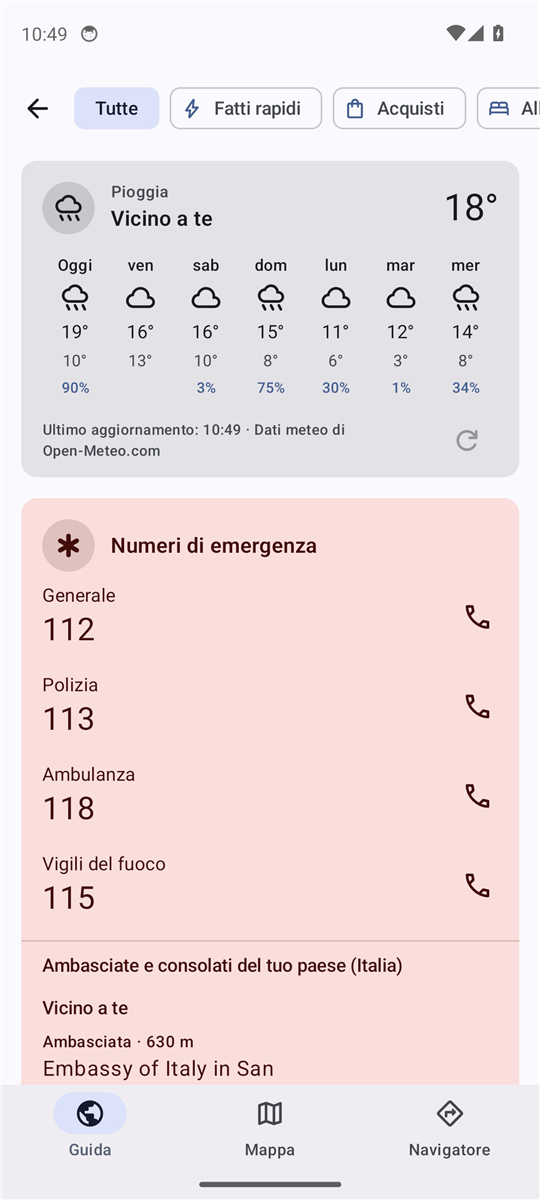
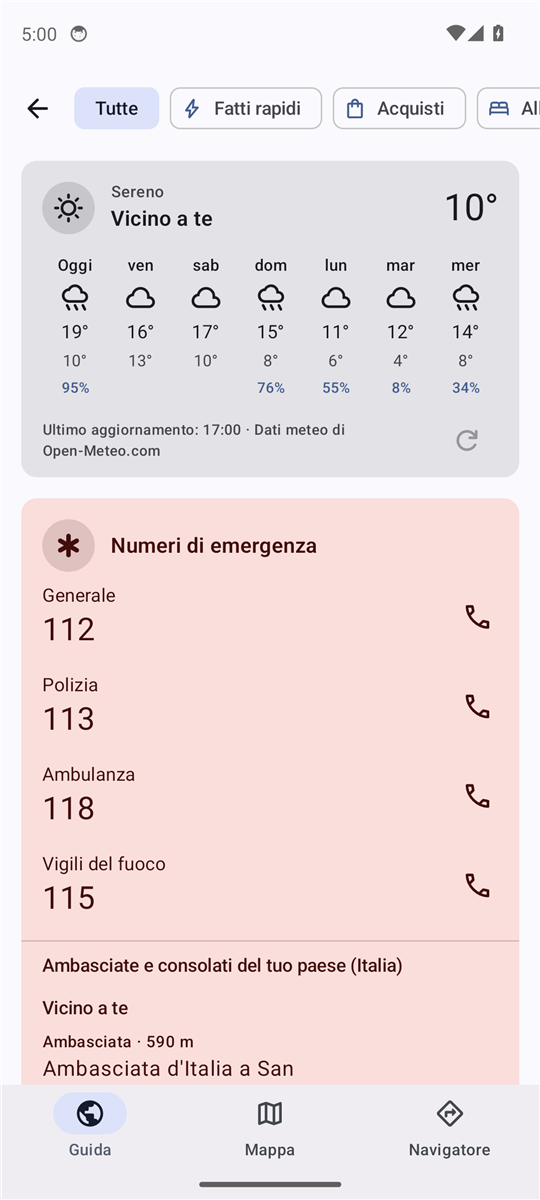
fix: nomi italiani in Italia, San Marino e Vaticano; Gratuito e ragionamento di Qwen online
Con l'app in italiano i luoghi di Italia, San Marino e Città del Vaticano
comparivano con il nome inglese ("Trevi Fountain", "Embassy of Italy in
San Marino"): la pipeline scartava name:it uguale a name e l'app passava
a name:en. Ora in quelle regioni l'italiano usa il nome locale, anche con
i pacchetti già installati, e la pipeline tiene name:it quando c'è anche
name:en.

Motore Online: un modello a prezzo zero mostra «Gratuito». Su Cloudflare
il ragionamento si spegne solo per Automatico (Gemma): senza ragionamento
Qwen, Più capace, sbagliava 4 domande difficili su 10.

diff --git a/tools/data-pipeline/content/src/main/kotlin/com/pockettravel/pipeline/GeneratePoi.kt b/tools/data-pipeline/content/src/main/kotlin/com/pockettravel/pipeline/GeneratePoi.kt
@@ -137,7 +137,8 @@ data class Poi(
     // Ambasciate e consolati: paese che rappresentano (tag OSM "country", ISO 3166-1 alpha-2), per
     // mostrare a chi viaggia quelle del proprio paese.
     val country: String? = null,
-    // Nome in inglese e in italiano (tag OSM name:en, name:it), solo se diverso da name: l'app mostra
+    // Nome in inglese e in italiano (tag OSM name:en, name:it), solo se diverso da name; nameIt resta anche
+    // se uguale a name quando c'e' un nameEn (senza, l'app mostrerebbe l'inglese a chi usa l'italiano). L'app mostra
     // quello della lingua dell'interfaccia, utile soprattutto con alfabeti diversi ("清水寺" -> "Kiyomizu-dera").
     val nameEn: String? = null,
     val nameIt: String? = null,
@@ -188,6 +189,7 @@ private fun poiFromKey(tags: Map<String, String>, lat: Double, lon: Double, tagK
     val osmTag = "$tagKey=$tagValue"
     val details = poiHasDetails(category, osmTag)
     val contacts = poiHasContacts(category, osmTag)
+    val nameEn = translatedName(tags, "name:en")?.nfc()
     return Poi(
         // Farmacie, supermercati e catene spesso hanno solo il marchio ("Conad", "Lloyds"): meglio del tipo.
         name = (tags["name"] ?: tags["brand"]?.takeIf { details } ?: tagValue).nfc(),
@@ -205,8 +207,9 @@ private fun poiFromKey(tags: Map<String, String>, lat: Double, lon: Double, tagK
         website = (tags["website"] ?: tags["contact:website"]).takeIf { contacts },
         email = (tags["email"] ?: tags["contact:email"]).takeIf { contacts },
         country = if (category == "embassy") representedCountry(tags["country"]) else null,
-        nameEn = translatedName(tags, "name:en")?.nfc(),
-        nameIt = translatedName(tags, "name:it")?.nfc(),
+        nameEn = nameEn,
+        // Uguale a name resta se c'e' un nameEn: senza, l'italiano cadrebbe sull'inglese ("Fontana di Trevi" -> "Trevi Fountain").
+        nameIt = translatedName(tags, "name:it", keepSameAsName = nameEn != null)?.nfc(),
         toiletsWheelchair = tags["toilets:wheelchair"],
         capacityDisabled = tags["capacity:disabled"]?.trim()?.toIntOrNull()?.takeIf { it > 0 },
         wikidata = wikidataNumber(tags["wikidata"]),
@@ -221,8 +224,8 @@ private fun wikidataNumber(raw: String?): Long? =
 // Nomi in forma precomposta (NFC): la ricerca per nome dell'app confronta i caratteri precomposti.
 private fun String.nfc(): String = Normalizer.normalize(this, Normalizer.Form.NFC)
 
-private fun translatedName(tags: Map<String, String>, key: String): String? =
-    tags[key]?.trim()?.takeIf { it.isNotEmpty() && tags["name"] != null && it != tags["name"] }
+private fun translatedName(tags: Map<String, String>, key: String, keepSameAsName: Boolean = false): String? =
+    tags[key]?.trim()?.takeIf { it.isNotEmpty() && tags["name"] != null && (keepSameAsName || it != tags["name"]) }
 
 // "IT", anche da "it" o "IT;SM" (piu' paesi: il primo). null se non e' un codice a due lettere.
 private fun representedCountry(raw: String?): String? =

diff --git a/core/data/src/test/kotlin/com/pockettravel/core/data/PoiDisplayNameTest.kt b/core/data/src/test/kotlin/com/pockettravel/core/data/PoiDisplayNameTest.kt
@@ -1,0 +1,45 @@
+package com.pockettravel.core.data
+
+import org.junit.Assert.assertEquals
+import org.junit.Test
+
+class PoiDisplayNameTest {
+
+    private fun poi(regionId: String, nameEn: String? = "Trevi Fountain", nameIt: String? = null) = Poi(
+        id = 1, regionId = regionId, name = "Fontana di Trevi", category = "attraction", latitude = 41.9, longitude = 12.48,
+        osmTag = "tourism=attraction", phone = null, nameEn = nameEn, nameIt = nameIt,
+    )
+
+    @Test
+    fun `in italiano, nelle regioni di lingua italiana, vale il nome locale e non quello inglese`() {
+        listOf("italia", "san-marino", "citta-del-vaticano").forEach {
+            assertEquals("Fontana di Trevi", poi(it).displayName("it"))
+        }
+    }
+
+    @Test
+    fun `in italiano, nelle altre regioni, senza name it resta il nome inglese`() {
+        assertEquals("Trevi Fountain", poi("giappone").displayName("it"))
+    }
+
+    @Test
+    fun `name it vince sempre`() {
+        assertEquals("Fontana", poi("italia", nameIt = "Fontana").displayName("it"))
+        assertEquals("Fontana", poi("giappone", nameIt = "Fontana").displayName("it"))
+    }
+
+    @Test
+    fun `in inglese non cambia nulla`() {
+        assertEquals("Trevi Fountain", poi("italia").displayName("en"))
+        assertEquals("Fontana di Trevi", poi("italia", nameEn = null).displayName("en"))
+    }
+
+    @Test
+    fun `le rappresentanze OSM in Italia si mostrano con il nome italiano`() {
+        val embassy = Poi(
+            id = 2, regionId = "san-marino", name = "Ambasciata d'Italia a San Marino", category = "embassy", latitude = 43.9, longitude = 12.4,
+            osmTag = "amenity=embassy", phone = null, nameEn = "Embassy of Italy in San Marino",
+        )
+        assertEquals("Ambasciata d'Italia a San Marino", mergeEmbassies(listOf(embassy), emptyList(), emptyList(), "it").single().name)
+    }
+}

diff --git a/core/data/src/main/kotlin/com/pockettravel/core/data/PoiRepository.kt b/core/data/src/main/kotlin/com/pockettravel/core/data/PoiRepository.kt
@@ -133,8 +133,19 @@ private fun PoiEntity.toDomain() =
         toiletsWheelchair, capacityDisabled,
     )
 
-/** Nome nella lingua dell'interfaccia ("en"/"it") se OSM lo ha, altrimenti quello locale. */
-fun Poi.displayName(language: String): String = (if (language == "en") nameEn else nameIt ?: nameEn) ?: name
+private val ITALIAN_SPEAKING_REGIONS = setOf("italia", "san-marino", "citta-del-vaticano")
+
+/** True per le regioni in cui il nome locale dei luoghi e' gia' italiano (la pipeline salva name:it solo se diverso da name). */
+fun isItalianSpeakingRegion(regionId: String): Boolean = regionId in ITALIAN_SPEAKING_REGIONS
+
+/**
+ * Nome nella lingua dell'interfaccia ("en"/"it") se OSM lo ha, altrimenti quello locale. In italiano, dove
+ * il nome locale e' italiano ([localNameIsItalian]), vale al posto di quello inglese.
+ */
+fun displayName(language: String, name: String, nameEn: String?, nameIt: String?, localNameIsItalian: Boolean): String =
+    if (language == "en") nameEn ?: name else nameIt ?: nameEn.takeUnless { localNameIsItalian } ?: name
+
+fun Poi.displayName(language: String): String = displayName(language, name, nameEn, nameIt, isItalianSpeakingRegion(regionId))
 
 /** I POI attorno alla posizione e il raggio in cui sono stati cercati (metri). */
 data class NearbyPois(val pois: List<Poi>, val radiusMeters: Int)

diff --git a/feature/ai/src/test/kotlin/com/pockettravel/feature/ai/OnlineModelCatalogTest.kt b/feature/ai/src/test/kotlin/com/pockettravel/feature/ai/OnlineModelCatalogTest.kt
@@ -94,6 +94,17 @@ class OnlineModelCatalogTest {
     }
 
     @Test
+    fun `su Cloudflare ragiona solo il modello scelto fuori da Automatico`() = runTest {
+        // Prova del 2026-11-19 su 10 domande difficili: senza ragionamento Qwen ("Piu' capace") ne sbaglia 4, con 0;
+        // Gemma (Automatico) 2, alla pari di mistral-small, ma ragionando risponde in 13-33 secondi.
+        val catalog = catalog(FakeClient { error("non chiamato") }, dispatcher = StandardTestDispatcher(testScheduler))
+        assertTrue(catalog.withoutThinking(OnlineProvider.CLOUDFLARE, "@cf/google/gemma-4-26b-a4b-it"))
+        assertFalse(catalog.withoutThinking(OnlineProvider.CLOUDFLARE, "@cf/qwen/qwen3.8-27b"))
+        assertFalse(catalog.withoutThinking(OnlineProvider.CLOUDFLARE, "@cf/altro/modello"))
+        assertFalse(catalog.withoutThinking(OnlineProvider.GROQ, catalog.autoModel(OnlineProvider.GROQ)))
+    }
+
+    @Test
     fun `la temperatura viene dall'elenco, per gli altri nomi dalla regola`() = runTest {
         val catalog = catalog(FakeClient { error("non chiamato") }, dispatcher = StandardTestDispatcher(testScheduler))
         assertTrue(catalog.sendsTemperature(OnlineProvider.MISTRAL, "mistral-small-latest"))

diff --git a/feature/ai/src/main/kotlin/com/pockettravel/feature/ai/OnlineProvider.kt b/feature/ai/src/main/kotlin/com/pockettravel/feature/ai/OnlineProvider.kt
@@ -185,8 +185,10 @@ private val ACCOUNT_ID = Regex("[A-Za-z0-9-]{1,64}")
  * conservano solo contro gli abusi ("Safety Retention"), esclusi solo con «ZDR only» nell'account. [hasModelList]:
  * false se il servizio non ha `GET /models` (Cloudflare). [retentionDays]: per quanti giorni il servizio conserva le
  * domande, solo per [OnlinePrivacy.KEPT_FOR_ABUSE_CHECKS]. [withoutThinking]: `chat_template_kwargs.enable_thinking` false
- * in ogni richiesta (Cloudflare: provato il 2026-11-19, Qwen 3.8 da 2-4 s a 0,3-0,5 s per la prima parola e Gemma 4 da
- * 6-17 s a 0,7-4 s, con circa un decimo dei token; `reasoning_effort` non serve, Qwen rifiuta "none" e Gemma lo ignora).
+ * nelle richieste al modello di Automatico (OnlineModelCatalog.withoutThinking). Cloudflare, provato il 2026-11-19: Qwen 3.8
+ * da 2-4 s a 0,3-0,5 s per la prima parola e Gemma 4 da 6-17 s a 0,7-4 s, con circa un decimo dei token, ma su 10 domande
+ * difficili senza ragionamento Qwen ne sbaglia 4 e Gemma 2 (con il ragionamento 0): "Piu' capace" ragiona. `reasoning_effort`
+ * non serve, Qwen rifiuta "none" e Gemma lo ignora.
  */
 data class OnlineTerms(
     val privacy: OnlinePrivacy,

diff --git a/tools/data-pipeline/content/src/test/kotlin/com/pockettravel/pipeline/GeneratePoiTest.kt b/tools/data-pipeline/content/src/test/kotlin/com/pockettravel/pipeline/GeneratePoiTest.kt
@@ -529,6 +529,18 @@ class GeneratePoiTest {
     }
 
     @Test
+    fun `il nome italiano uguale al nome resta solo se c'e' un nome inglese diverso`() {
+        val pois = readOsm(
+            node(1, mapOf("tourism" to "attraction", "name" to "Fontana di Trevi", "name:it" to "Fontana di Trevi", "name:en" to "Trevi Fountain")) +
+                node(2, mapOf("tourism" to "attraction", "name" to "Fontana di Trevi", "name:it" to "Fontana di Trevi")) +
+                node(3, mapOf("tourism" to "attraction", "name" to "Trevi Fountain", "name:it" to "Fontana di Trevi", "name:en" to "Trevi Fountain")),
+        )
+
+        assertEquals(listOf("Fontana di Trevi", null, "Fontana di Trevi"), pois.map { it.nameIt })
+        assertEquals(listOf("Trevi Fountain", null, null), pois.map { it.nameEn })
+    }
+
+    @Test
     fun `il paese di un'ambasciata e' un codice a due lettere maiuscolo, il primo se ce ne sono piu'`() {
         fun countryOf(value: String?): String? {
             val tags = mutableMapOf("office" to "diplomatic", "name" to "Rappresentanza")

diff --git a/feature/map/src/test/kotlin/com/pockettravel/feature/map/MapPinTest.kt b/feature/map/src/test/kotlin/com/pockettravel/feature/map/MapPinTest.kt
@@ -21,6 +21,19 @@ class MapPinTest {
     }
 
     @Test
+    fun `in una regione di lingua italiana, senza name it, in italiano vale il nome locale`() {
+        val trevi = MapPin(
+            "1", "Fontana di Trevi", 0.0, 0.0, PoiCategory.ATTRAZIONI, "tourism=attraction", null,
+            nameEn = "Trevi Fountain", localNameIsItalian = true,
+        )
+        assertEquals("Fontana di Trevi", trevi.displayName("it"))
+        assertEquals("Trevi Fountain", trevi.displayName("en"))
+        assertEquals("Fontana", trevi.copy(nameIt = "Fontana").displayName("it"))
+        // Altrove l'inglese resta il ripiego.
+        assertEquals("Trevi Fountain", trevi.copy(localNameIsItalian = false).displayName("it"))
+    }
+
+    @Test
     fun `distintivo pieno per i posti accessibili, vuoto per quelli in parte, nessuno altrimenti`() {
         assertEquals(AccessibilityBadge.YES, accessibilityBadgeOf("yes"))
         assertEquals(AccessibilityBadge.YES, accessibilityBadgeOf("designated"))

diff --git a/feature/map/src/main/kotlin/com/pockettravel/feature/map/MapPin.kt b/feature/map/src/main/kotlin/com/pockettravel/feature/map/MapPin.kt
@@ -1,5 +1,6 @@
 package com.pockettravel.feature.map
 
+import com.pockettravel.core.data.displayName
 import com.pockettravel.core.poi.PoiCategory
 
 data class MapPin(
@@ -26,7 +27,9 @@ data class MapPin(
     // Bagni accessibili (OSM "toilets:wheelchair": yes, limited, no...) e posti auto per disabili, se indicati.
     val toiletsWheelchair: String? = null,
     val capacityDisabled: Int? = null,
+    // Regione in cui [name] e' gia' italiano (Italia, San Marino, Vaticano): in italiano vale al posto di [nameEn].
+    val localNameIsItalian: Boolean = false,
 ) {
     /** Nome nella lingua dell'interfaccia se OSM lo ha, altrimenti [name] (null senza nome). */
-    fun displayName(language: String): String? = name?.let { (if (language == "en") nameEn else nameIt ?: nameEn) ?: it }
+    fun displayName(language: String): String? = name?.let { displayName(language, it, nameEn, nameIt, localNameIsItalian) }
 }

diff --git a/feature/map/src/main/kotlin/com/pockettravel/feature/map/MapRouteViewModel.kt b/feature/map/src/main/kotlin/com/pockettravel/feature/map/MapRouteViewModel.kt
@@ -19,6 +19,7 @@ import com.pockettravel.core.data.TripView
 import com.pockettravel.core.data.db.CategoryTag
 import com.pockettravel.core.data.hasName
 import com.pockettravel.core.data.isHiddenOnMap
+import com.pockettravel.core.data.isItalianSpeakingRegion
 import com.pockettravel.core.data.poiCategory
 import com.pockettravel.core.poi.PoiCategory
 import dagger.hilt.android.lifecycle.HiltViewModel
@@ -292,6 +293,7 @@ private fun toPins(inArea: AreaPois?): List<MapPin> =
             openingHours = poi.openingHours, address = poi.address, website = poi.website, email = poi.email,
             nameEn = poi.nameEn, nameIt = poi.nameIt,
             toiletsWheelchair = poi.toiletsWheelchair, capacityDisabled = poi.capacityDisabled,
+            localNameIsItalian = isItalianSpeakingRegion(poi.regionId),
         )
     }
 

diff --git a/feature/ai/src/main/kotlin/com/pockettravel/feature/ai/OnlineModelCatalog.kt b/feature/ai/src/main/kotlin/com/pockettravel/feature/ai/OnlineModelCatalog.kt
@@ -68,6 +68,10 @@ class OnlineModelCatalog(
     fun sendsTemperature(provider: OnlineProvider, model: String): Boolean =
         (models(provider) + otherModels(provider)).firstOrNull { it.id == model }?.temperature ?: supportsTemperature(model)
 
+    /** Se spegnere il ragionamento di [model]: dove il servizio lo permette ([OnlineTerms.withoutThinking]), solo per Automatico. */
+    fun withoutThinking(provider: OnlineProvider, model: String): Boolean =
+        provider.terms.withoutThinking && model == autoModel(provider)
+
     /** Se [model] accetta foto: dall'elenco; un modello che l'elenco non conosce si tratta come solo testo. */
     fun supportsVision(provider: OnlineProvider, model: String): Boolean =
         (models(provider) + otherModels(provider)).firstOrNull { it.id == model }?.vision == true

diff --git a/feature/ai/src/main/kotlin/com/pockettravel/feature/ai/OnlineServiceSetup.kt b/feature/ai/src/main/kotlin/com/pockettravel/feature/ai/OnlineServiceSetup.kt
@@ -355,10 +355,10 @@ private fun costText(model: OnlineModelEntry): String {
         currency = Currency.getInstance("USD")
         maximumFractionDigits = 2
     }
-    return if (usd < MIN_SHOWN_COST) {
-        stringResource(R.string.ai_online_model_cost_below, format.format(MIN_SHOWN_COST))
-    } else {
-        stringResource(R.string.ai_online_model_cost, format.format(usd))
+    return when {
+        usd == 0.0 -> stringResource(R.string.ai_online_model_cost_free)
+        usd < MIN_SHOWN_COST -> stringResource(R.string.ai_online_model_cost_below, format.format(MIN_SHOWN_COST))
+        else -> stringResource(R.string.ai_online_model_cost, format.format(usd))
     }
 }
 

diff --git a/feature/ai/src/main/kotlin/com/pockettravel/feature/ai/TravelAssistant.kt b/feature/ai/src/main/kotlin/com/pockettravel/feature/ai/TravelAssistant.kt
@@ -520,7 +520,7 @@ class TravelAssistant @Inject constructor(
                 sendTemperature = onlineModelCatalog.sendsTemperature(provider, model),
                 api = provider.terms.api,
                 zeroDataRetention = provider.terms.zeroDataRetention,
-                withoutThinking = provider.terms.withoutThinking,
+                withoutThinking = onlineModelCatalog.withoutThinking(provider, model),
                 photo = photo,
                 onRequestsExhausted = { resetAt -> onlineQuota.markExhausted(provider, model, System.currentTimeMillis(), resetAt, daily = false) },
             )
